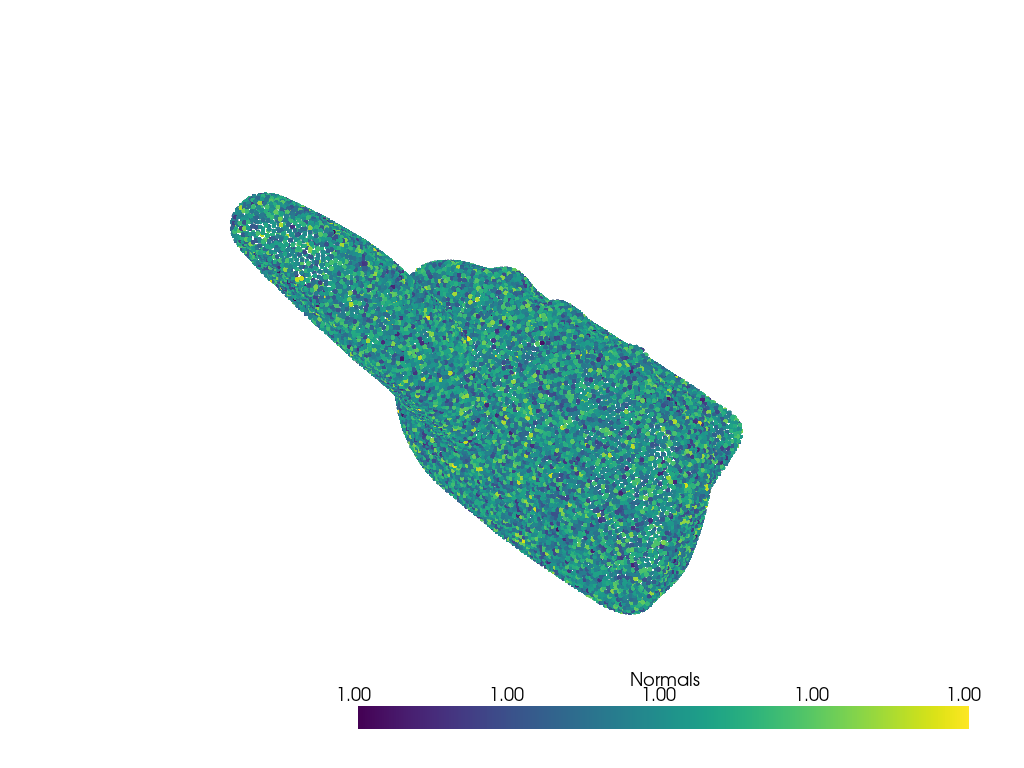
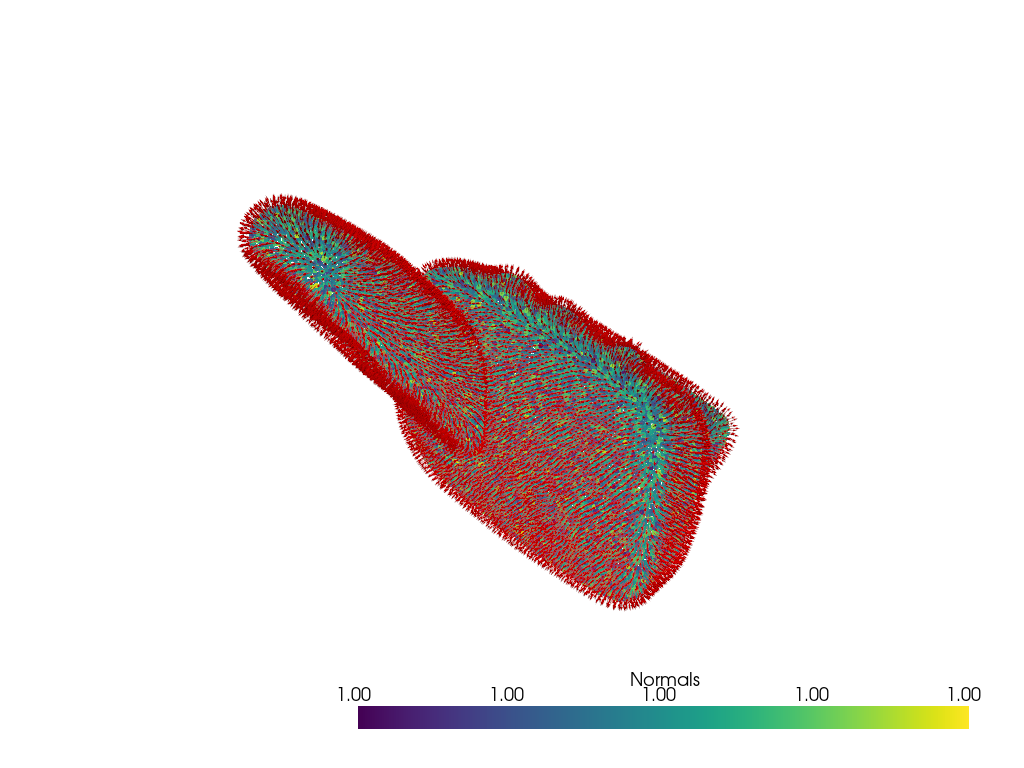
with arrows

Changed region(s): [[0.2188, 0.25, 0.75, 0.8125]]

diff --git a/surface_vector_prediction/scripts/extract_surface_normals.py b/surface_vector_prediction/scripts/extract_surface_normals.py
@@ -45,6 +45,10 @@ mesh_pv = pv.PolyData(rotated_vertices)
 mesh_pv["Normals"] = rotated_normals
 plotter.add_mesh(mesh_pv, scalars="Normals", lighting=True)
 screenshot_path = os.path.join(augment_dir, "rotated_obj_15_y45.png")
+
+#uncomment the following line to visualize the object with the surface normals
+#plotter.add_arrows(rotated_vertices, rotated_normals, mag=5, color='red')
+
 plotter.show(screenshot=screenshot_path)
 
 plotter.close()
